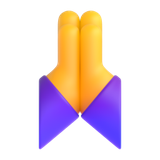
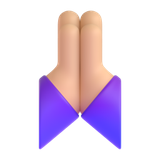
Emoji 🙏: usa a variante de tom Medium-Light do Fluent 3D
A versão amarela, em tamanho pequeno, vira um formato amarelo e roxo difícil de reconhecer
(aparece em 'thank you' e nas frases com 'please'). A Medium-Light lê como mãos juntas e
contrasta com o fundo creme (a Light some nele). Registrado em URL_OVERRIDES do script, que
continua reprodutível.

Claude-Session: https://claude.ai/code/session_01HNt7mqsAFMizMiGmctwh5y

Changed region(s): [[0.2812, 0.0625, 0.7188, 0.7188], [0.2188, 0.5, 0.25, 0.6562]]

diff --git a/scripts/fetch_fluent_emoji.py b/scripts/fetch_fluent_emoji.py
@@ -44,6 +44,14 @@ SIZE = 160
 # codepoints (sem FE0F, ver cp_key) -> nome da pasta no Fluent, pros que nao resolvem sozinhos.
 OVERRIDES = {"1f53a": "Red triangle"}
 
+# codepoints -> caminho exato (relativo a BASE) quando a variante padrao nao serve. O 🙏 amarelo do
+# Fluent 3D, pequeno, vira um formato amarelo+roxo ilegivel (maos + mangas roxas); a variante de tom
+# "Medium-Light" fica com cara de maos juntas (e tem contraste com o fundo creme, ao contrario da "Light").
+# Pra voltar ao amarelo, remova a entrada e rode com --force.
+URL_OVERRIDES = {
+    "1f64f": "assets/Folded%20hands/Medium-Light/3D/folded_hands_3d_medium-light.png",
+}
+
 # O Fluent 3D nao tem familia, "pessoas de maos dadas" nem casal de maos dadas. Pra esses, o script
 # monta o PNG juntando emoji individuais lado a lado: codepoints -> lista de emoji componentes.
 # Crianca (CHILDREN) fica menor, na frente e no centro de baixo.
@@ -163,6 +171,8 @@ def candidate_urls(seq):
         folders += [v[0].upper() + v[1:] for v in variants(n)]
     folders = list(dict.fromkeys(folders))
     urls = []
+    if cp_key(seq) in URL_OVERRIDES:
+        urls.append(BASE + URL_OVERRIDES[cp_key(seq)])
     for f in folders:
         fn = f.lower().replace(" ", "_")
         q = urllib.parse.quote(f)
